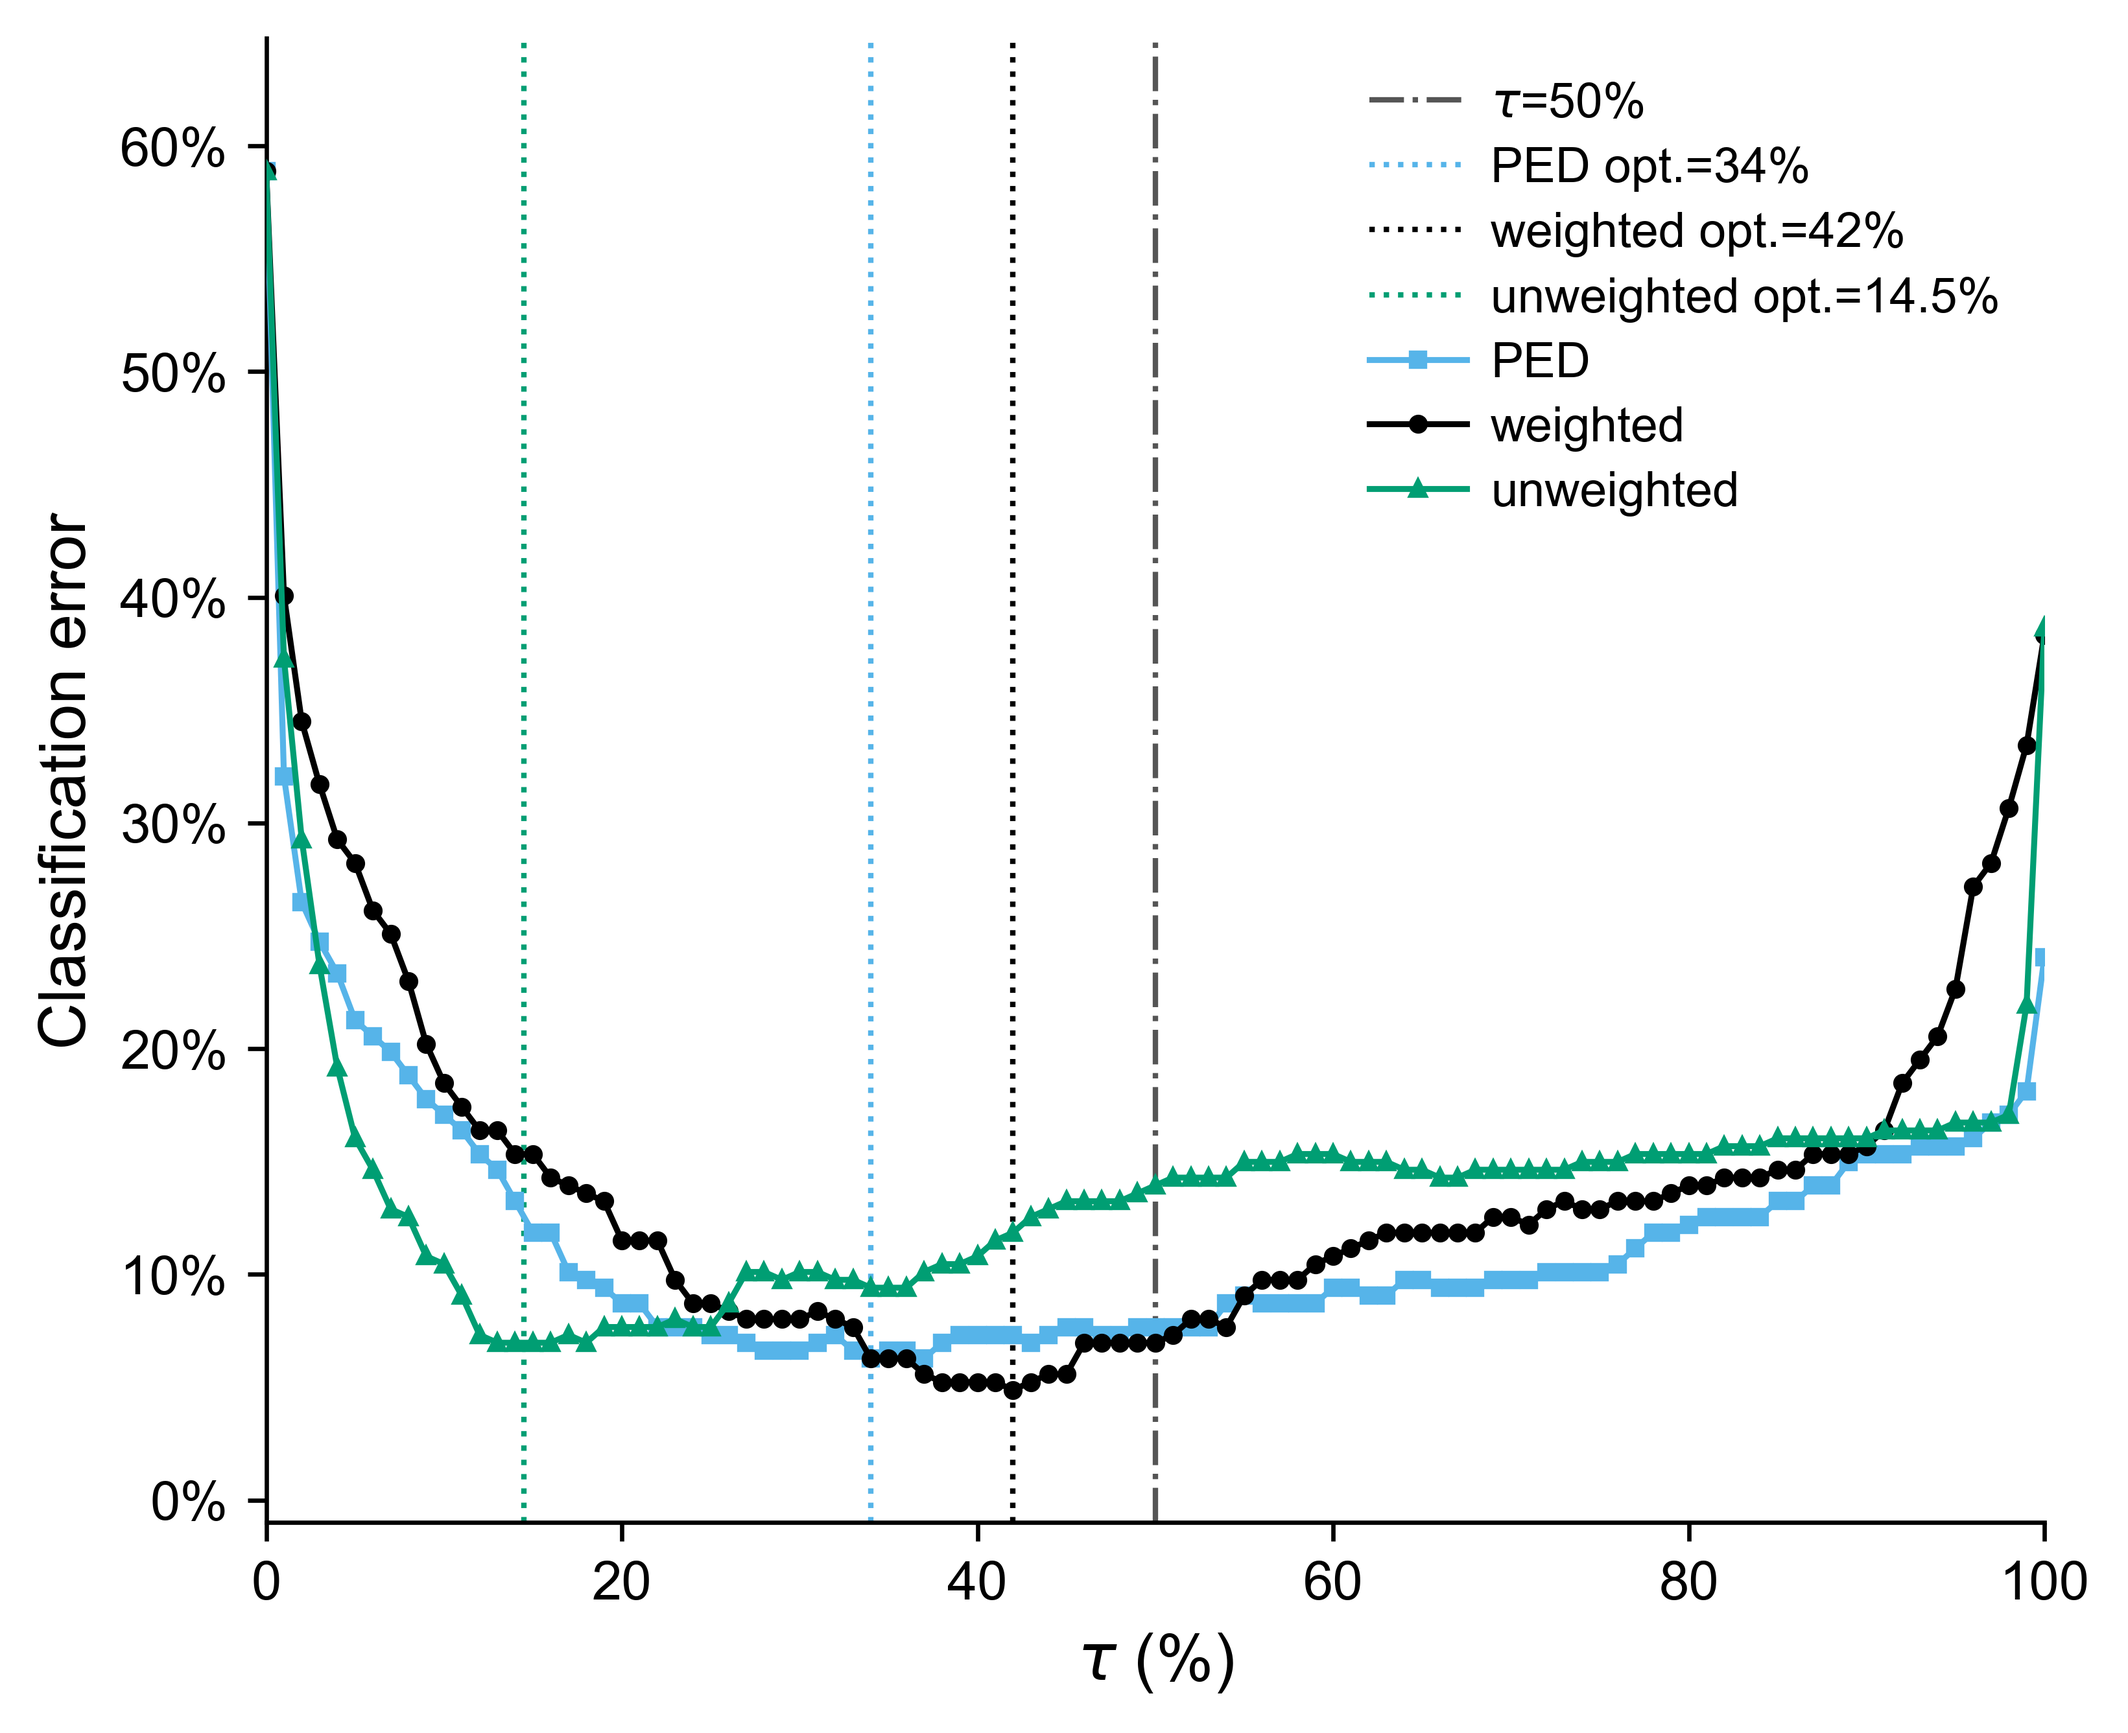
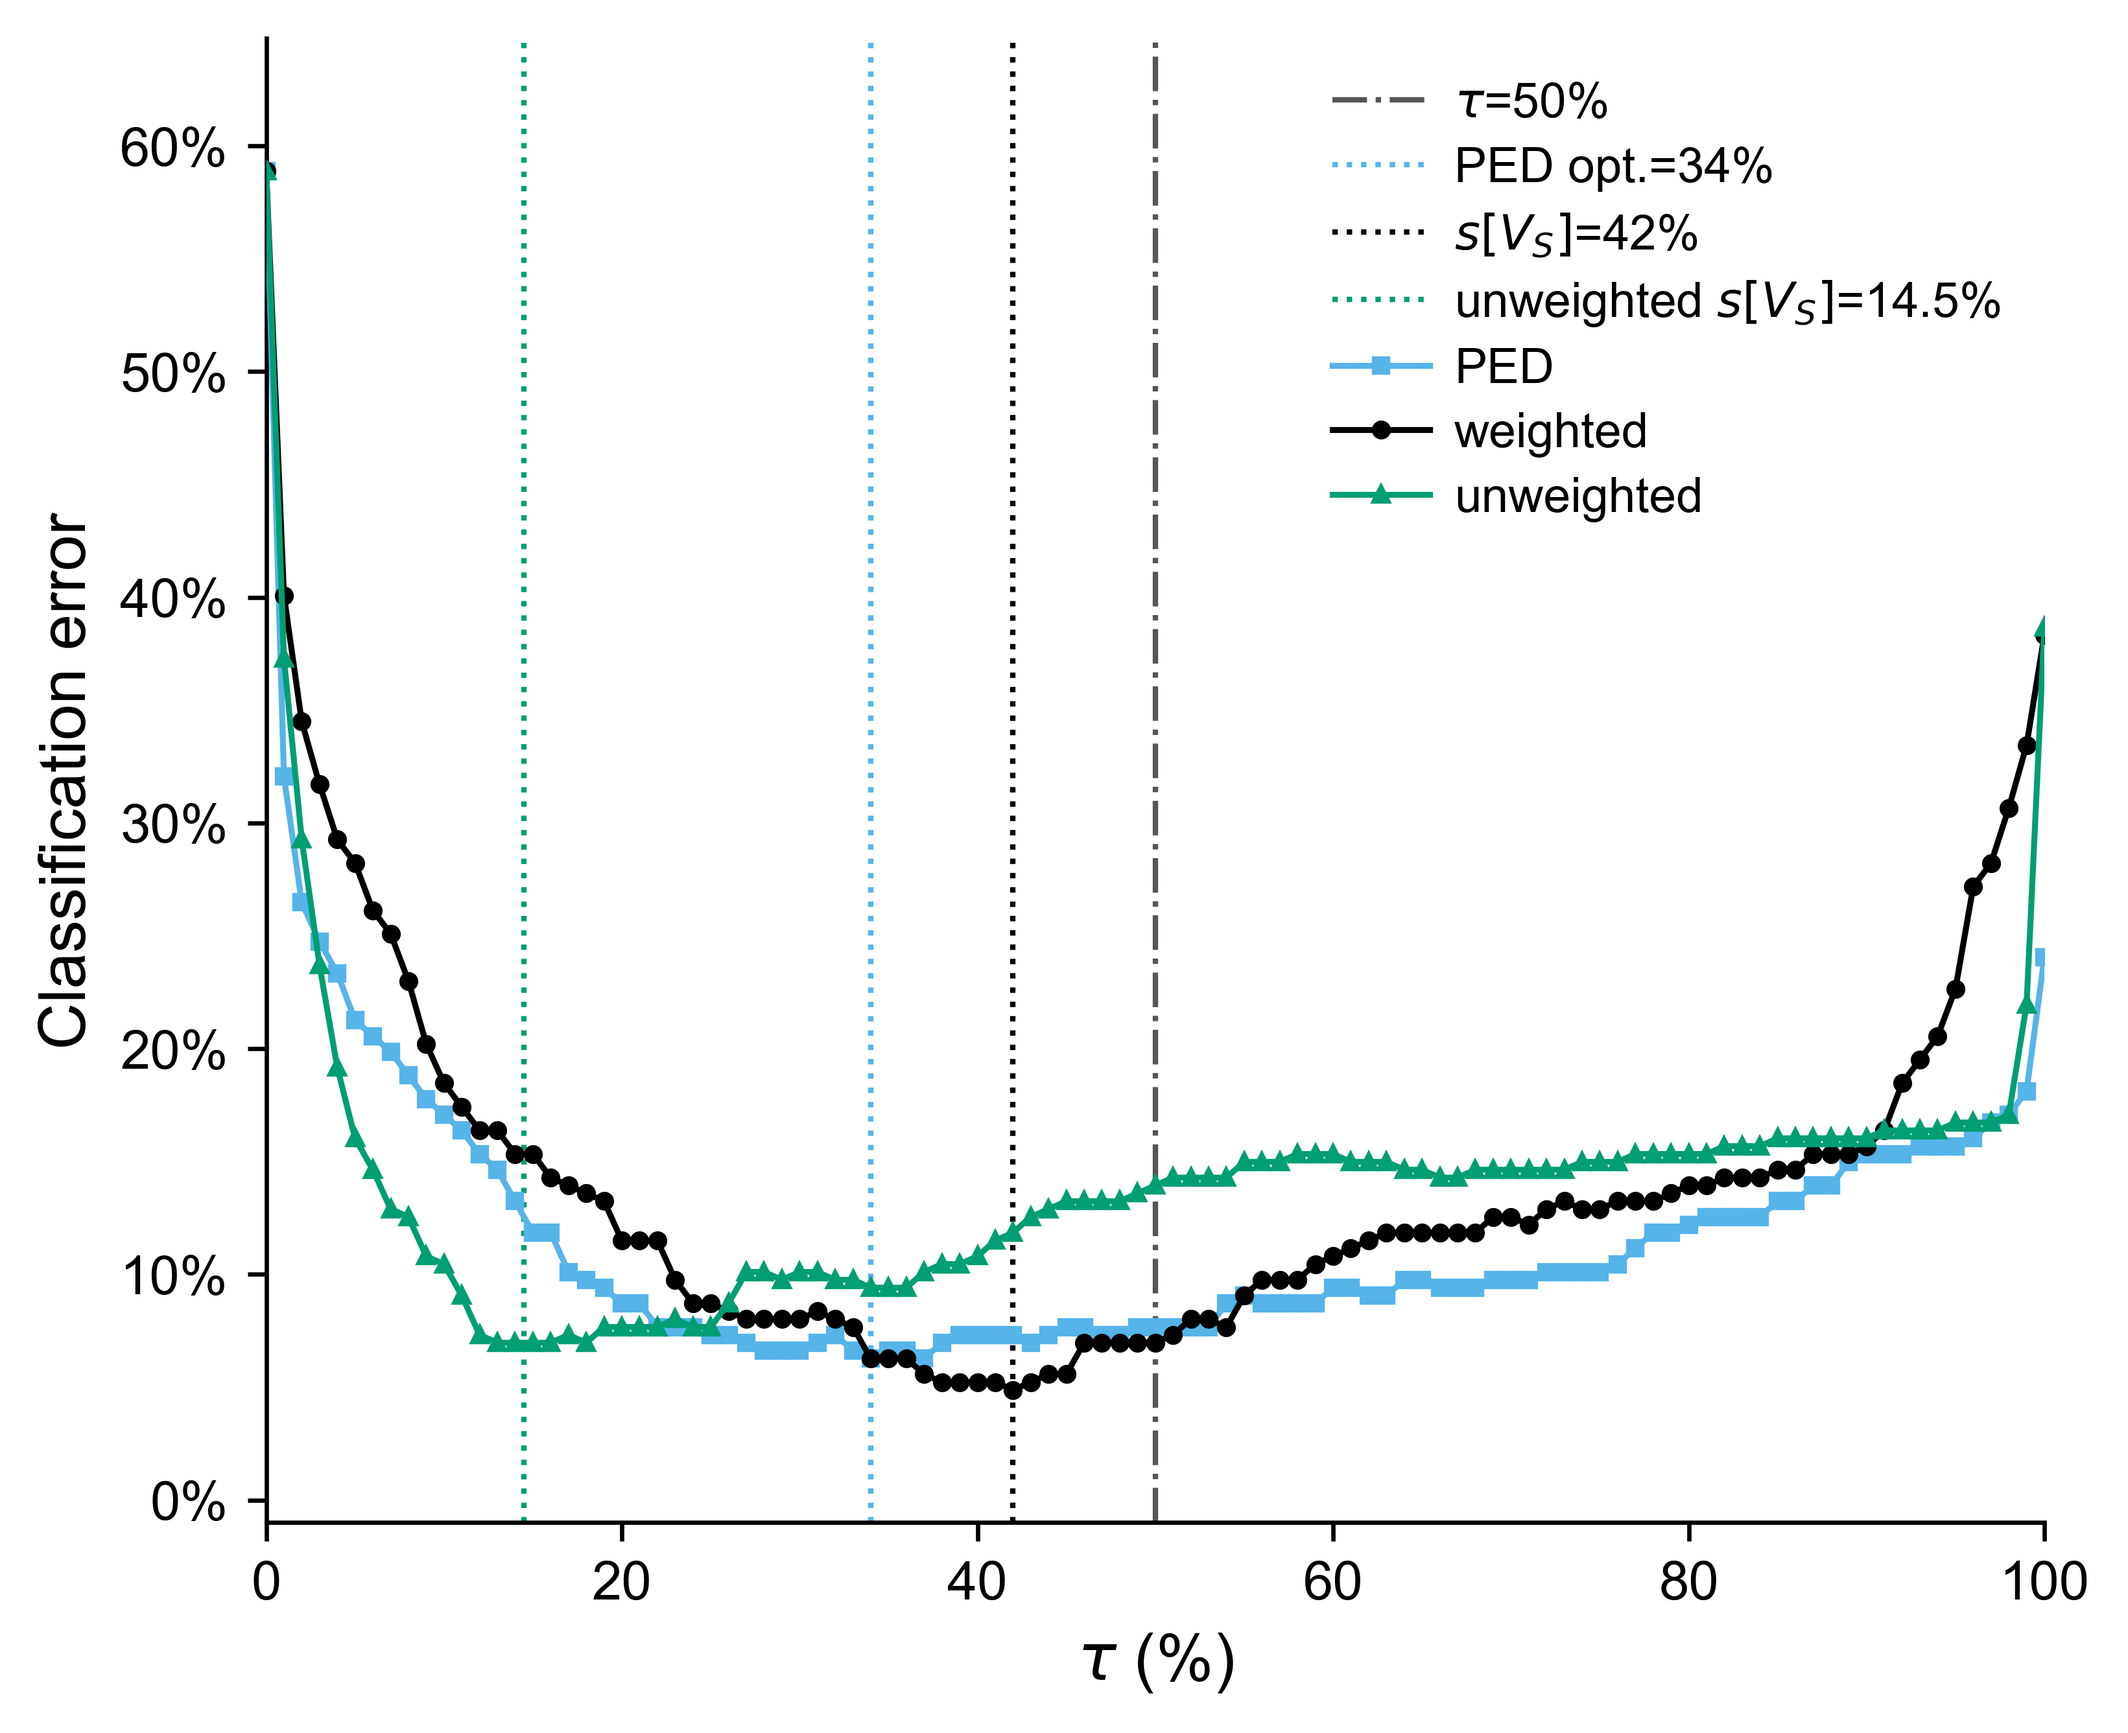
Rename weighted/unweighted opt. vline labels to s[V_S]/unweighted s[V_S]
The weighted score is the active default, so its optimal-tau reference
line is now just labeled s[V_S] (unqualified); the unweighted one stays
explicitly qualified as unweighted s[V_S].

Changed region(s): [[0.6216, 0.031, 0.9324, 0.3104]]

diff --git a/src/figures.py b/src/figures.py
@@ -2761,9 +2761,9 @@ def plot_stretch_predictor_sensitivity(
     ax.axvline(mid_p, color=COLORS["sens_accuracy"], ls=":", lw=1.0, zorder=2,
                label=f"PED opt.={mid_p:g}%")
     ax.axvline(mid_w, color=COLORS["sens_change"], ls=":", lw=1.0, zorder=2,
-               label=f"weighted opt.={mid_w:g}%")
+               label=f"$s[V_S]$={mid_w:g}%")
     ax.axvline(mid_u, color=COLORS["sens_single_centre"], ls=":", lw=1.0, zorder=2,
-               label=f"unweighted opt.={mid_u:g}%")
+               label=f"unweighted $s[V_S]$={mid_u:g}%")
 
     l1, = ax.plot(sweep["tau_pct"], sweep["error_PED"], color=COLORS["sens_accuracy"],
                   marker="s", markersize=2.5, lw=1.1, zorder=3, label="PED")
